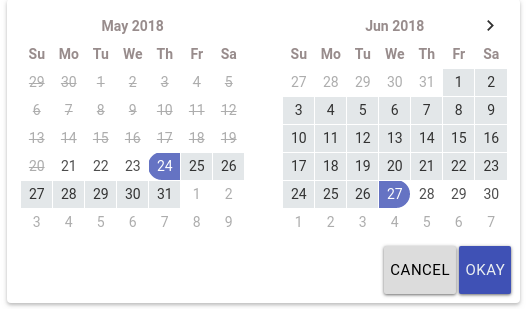
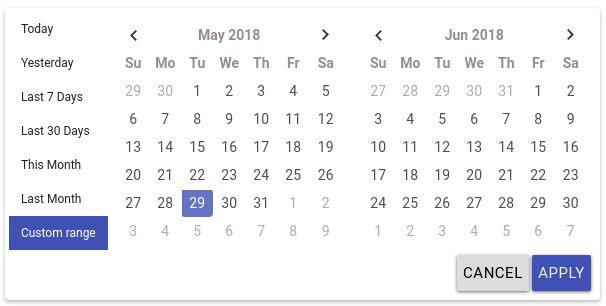
chore(doc): update readme

diff --git a/demo/src/app/full/full.component.html b/demo/src/app/full/full.component.html
@@ -57,4 +57,3 @@
     </div>
   </div>
 </mat-card>
-<simple></simple>

diff --git a/README.md b/README.md
@@ -108,4 +108,21 @@ example:
 
 the model we got would be:  `{start: Date, end: Date}`
 
+### ranges
+
+(object) Set predefined date ranges the user can select from. Each key is the label for the range, and its value an array with two dates representing the bounds of the range. As an example:
+```html
+<input type="text" ngxDaterangepickerMd startKey="start" endKey="end" [ranges]="ranges" [(ngModel)]="model">
+```
+```javascript
+ranges: any = {
+    'Today': [moment(), moment()],
+    'Yesterday': [moment().subtract(1, 'days'), moment().subtract(1, 'days')],
+    'Last 7 Days': [moment().subtract(6, 'days'), moment()],
+    'Last 30 Days': [moment().subtract(29, 'days'), moment()],
+    'This Month': [moment().startOf('month'), moment().endOf('month')],
+    'Last Month': [moment().subtract(1, 'month').startOf('month'), moment().subtract(1, 'month').endOf('month')]
+  }
+```
+
 ## [License](https://github.com/fetrarij/ngx-daterangepicker-material/blob/master/LICENSE)
